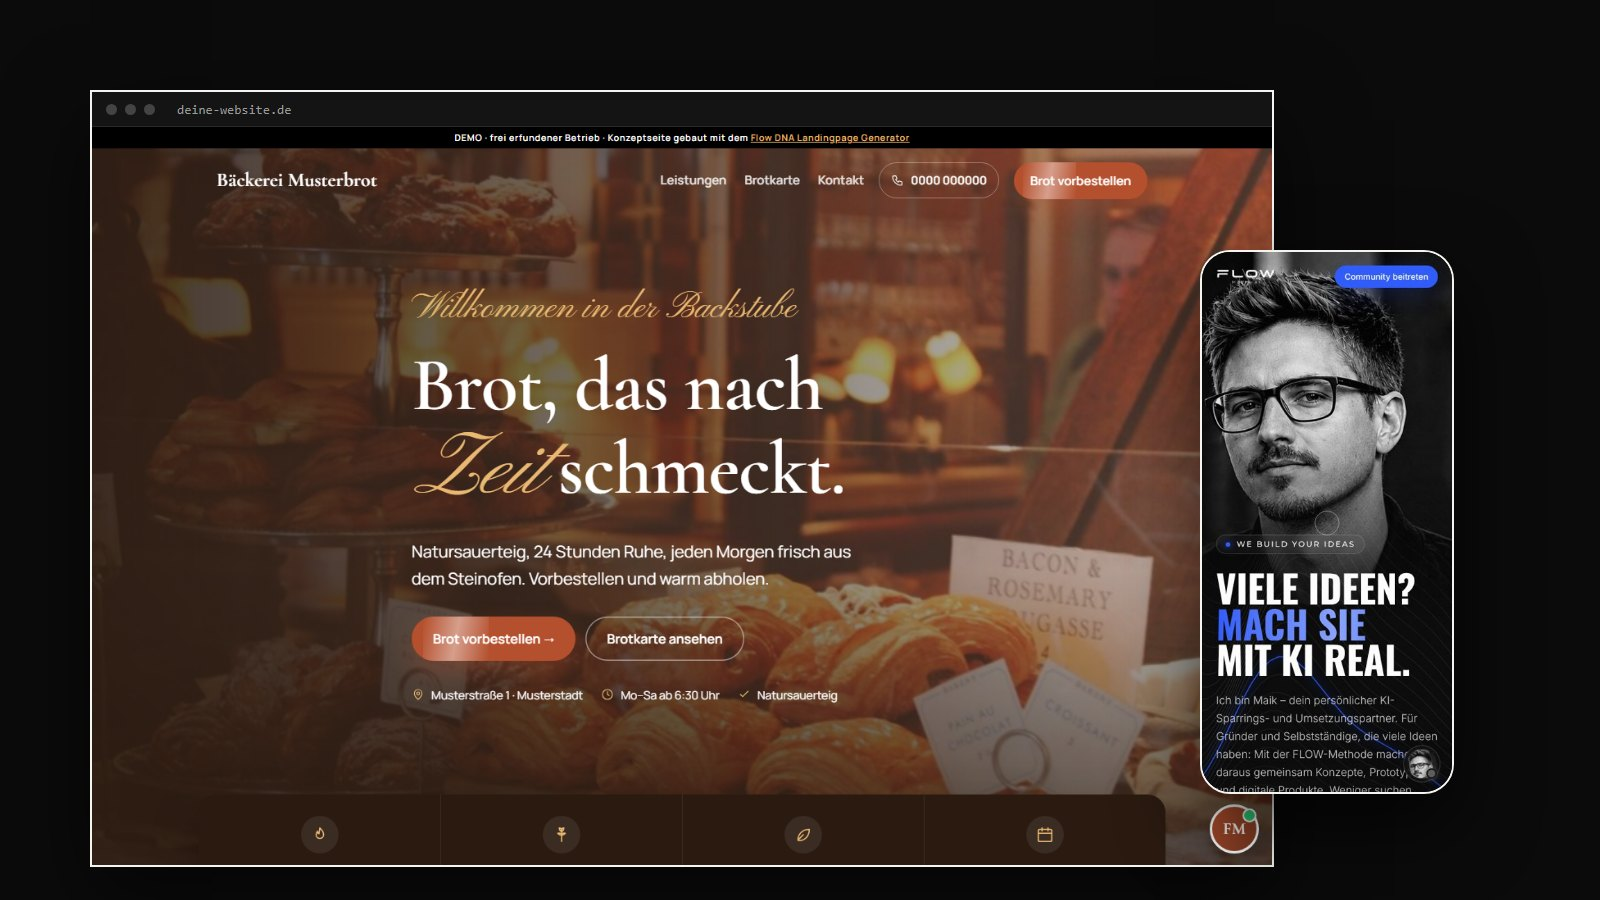
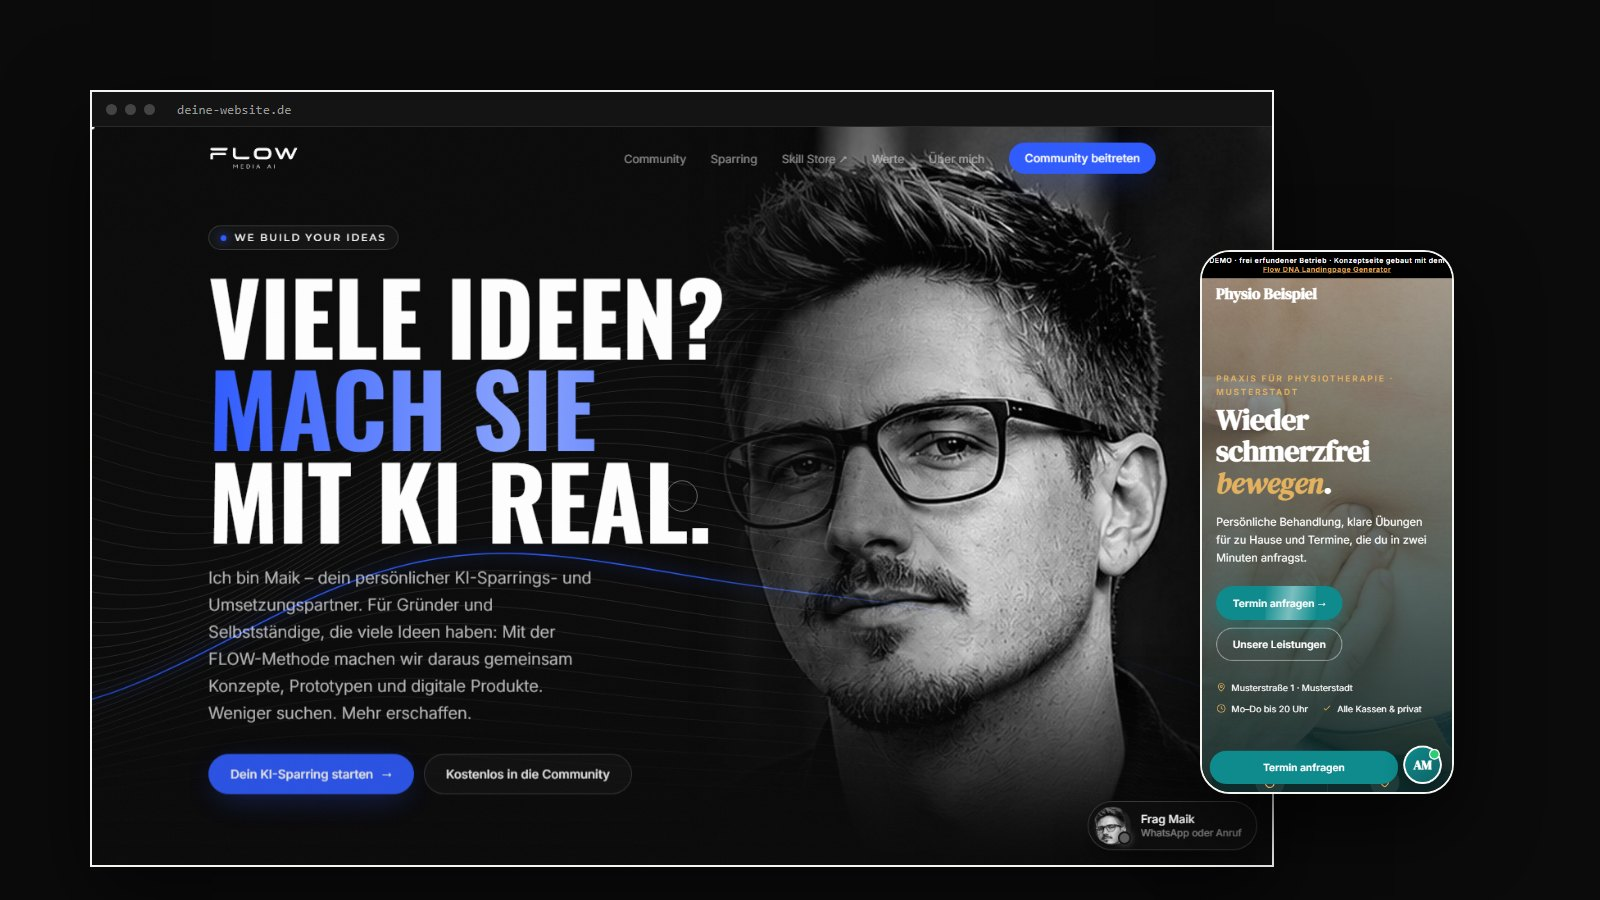
Kurs 03: Block „Flow DNA Special Skill – Gebaut für Premium.“, Cover mit Flow-Media-AI-Seite + Physio-Demo statt Bäckerei

diff --git a/flow-dna/index.html b/flow-dna/index.html
@@ -105,6 +105,12 @@ nav button.cbtn{gap:2px}nav button.cbtn img{width:50px;height:50px;border-radius
 .kd .kpb b{display:block;font:700 34px/1.05 Oswald;margin:4px 0 2px}
 .kd .kpb b s{font-size:20px;color:#9a9a95}
 .kd .kpb span{font-size:13px;color:#444}
+.kd .ksp{background:#0B0B0B;color:#F4F4F1;padding:16px 16px 12px;margin:10px 0 14px;border-left:4px solid #2F5BFF}
+.kd .ksp small{display:block;font:700 11px Montserrat;letter-spacing:.14em;text-transform:uppercase;color:#7F9BFF}
+.kd .ksp b{display:block;font:700 30px/1 Oswald;text-transform:uppercase;margin:6px 0 8px}
+.kd .ksp p{font-size:13.5px;line-height:1.55;color:#ddd;margin:0 0 8px}
+.kd .ksp ul{margin:0;padding-left:18px;border:0}
+.kd .ksp li{display:list-item;border:0;padding:3px 0;font-size:13px;color:#F4F4F1}
 .kd{margin:0 16px 30px}.kd .back{border:0;background:none;font:600 14px Inter;padding:12px 0;cursor:pointer}.kd .cv{height:200px;background-size:cover;background-position:center 30%;filter:grayscale(1);position:relative;border:2px solid #0B0B0B}
 .kd .cv span{position:absolute;right:10px;top:10px;font:700 12px Montserrat;letter-spacing:.12em;text-transform:uppercase;background:#2F5BFF;color:#fff;padding:5px 9px;filter:none}
 .kd h2{font:700 38px/1 Oswald;text-transform:uppercase;margin:12px 0 4px}.kd .sub{font-size:15px;color:#444;margin:0 0 6px}.kd .meta{font:600 12px Montserrat;letter-spacing:.12em;text-transform:uppercase;color:#6B6B66;margin-bottom:10px}
@@ -363,6 +369,7 @@ function kursPlayer(k){const D=kDone(k.id),L=k.lektionen;const nD=D.length;
   <h2>${DNA.esc(k.titel)}</h2><p class="sub">${DNA.esc(k.untertitel)}</p><div class="meta">${DNA.esc(k.level)} · ${DNA.esc(k.dauer)} · ${L.length} Lektionen</div>
   ${cur?`<video id="kvid" controls playsinline preload="metadata" poster="${cur.poster}" src="${cur.src}"></video><p class="now">▶ ${DNA.esc(cur.t)}</p>`:`<div class="cv" style="background-image:url(${DNA.esc(k.bild)})"><span>Folgt</span></div><p class="now">&nbsp;</p>`}
   ${k.hinweis?`<p class="hz">${DNA.esc(k.hinweis)}</p>`:""}
+  ${k.special?`<div class="ksp"><small>★ ${DNA.esc(k.special.label)}</small><b>${DNA.esc(k.special.titel)}</b><p>${DNA.esc(k.special.text)}</p><ul>${k.special.punkte.map(x=>`<li>${DNA.esc(x)}</li>`).join("")}</ul></div>`:""}
   <ol><li class="${kLek<0?"on":""}"><button type="button" class="lh" data-klek="-1"><i>00</i><span>Intro: ${DNA.esc(k.intro.titel)}</span><em>▶</em></button></li>${L.map((l,i)=>{const on=i===kLek,dn=D.includes(i);
    const st=l.folgt?"Folgt":l.optional?(dn?"✓ Optional":"Optional"):dn?"✓":"▶";
    return `<li class="${on?"on":""}"><button type="button" class="lh" data-klek="${i}"><i>${String(i+1).padStart(2,"0")}</i><span>${DNA.esc(k.module[i])}</span><em class="${dn?"ok":""}">${st}</em></button>
@@ -385,7 +392,7 @@ function kurse(){const M=kVorgemerkt();
   view.innerHTML=`<div class="kd"><button type="button" class="back" data-kurs="">← Alle Kurse</button><div class="cv" style="background-image:url(${DNA.esc(k.bild)})"><span>${lk?"Fertig · mit Code":"Coming soon"}</span></div>
   <h2>${DNA.esc(k.titel)}</h2><p class="sub">${DNA.esc(k.untertitel)}</p><div class="meta">${DNA.esc(k.level)} · ${DNA.esc(k.dauer)} · ${k.module.length} Lektionen</div>
   <ol>${k.module.map((m,i)=>`<li><i>${String(i+1).padStart(2,"0")}</i>${DNA.esc(m)}<em>🔒</em></li>`).join("")}</ol>
-  ${lk&&k.preis?`<div class="kpb"><small>Early Bird</small><b>${k.preis.early} € <s>${k.preis.normal} €</s></b><span>${DNA.esc(k.preis.gratis)} – Code einfach unten eingeben.</span></div>`:""}<div class="btnrow">${lk&&k.preis?`<a class="btnx b" href="${DNA.wa(`Hi Maik, ich möchte den Kurs „${k.titel}“ zum Early-Bird-Preis von ${k.preis.early} € (Flow-DNA-App).`)}" target="_blank" rel="noopener">Für ${k.preis.early} € sichern</a>`:""}<button type="button" class="btnx ${lk&&k.preis?"o":"b"}" data-kvm="${k.id}">${M.includes(k.id)?"✓ Vorgemerkt":"Vormerken"}</button><a class="btnx o" style="color:#0B0B0B;background:#fff" href="${DNA.wa(lk?`Hi Maik, ich hätte gern den Kurs-Code für „${k.titel}“ (Flow-DNA-App).`:`Hi Maik, sag mir Bescheid, wenn der Kurs „${k.titel}“ startet (Flow-DNA-App).`)}" target="_blank" rel="noopener">${lk?"Code per WhatsApp anfragen":"Per WhatsApp Bescheid bekommen"}</a></div>
+  ${k.special?`<div class="ksp"><small>★ ${DNA.esc(k.special.label)}</small><b>${DNA.esc(k.special.titel)}</b><p>${DNA.esc(k.special.text)}</p><ul>${k.special.punkte.map(x=>`<li>${DNA.esc(x)}</li>`).join("")}</ul></div>`:""}${lk&&k.preis?`<div class="kpb"><small>Early Bird</small><b>${k.preis.early} € <s>${k.preis.normal} €</s></b><span>${DNA.esc(k.preis.gratis)} – Code einfach unten eingeben.</span></div>`:""}<div class="btnrow">${lk&&k.preis?`<a class="btnx b" href="${DNA.wa(`Hi Maik, ich möchte den Kurs „${k.titel}“ zum Early-Bird-Preis von ${k.preis.early} € (Flow-DNA-App).`)}" target="_blank" rel="noopener">Für ${k.preis.early} € sichern</a>`:""}<button type="button" class="btnx ${lk&&k.preis?"o":"b"}" data-kvm="${k.id}">${M.includes(k.id)?"✓ Vorgemerkt":"Vormerken"}</button><a class="btnx o" style="color:#0B0B0B;background:#fff" href="${DNA.wa(lk?`Hi Maik, ich hätte gern den Kurs-Code für „${k.titel}“ (Flow-DNA-App).`:`Hi Maik, sag mir Bescheid, wenn der Kurs „${k.titel}“ startet (Flow-DNA-App).`)}" target="_blank" rel="noopener">${lk?"Code per WhatsApp anfragen":"Per WhatsApp Bescheid bekommen"}</a></div>
   <form data-kcode="${k.id}"><input name="c" placeholder="KURS-CODE" aria-label="Kurs-Code" autocomplete="off"><button type="submit">Freischalten</button></form><p class="msg" id="kmsg"></p></div>`;return}}
  document.getElementById("meta").innerHTML=`<span>Online-Kurse</span><span>${K.kurse.filter(x=>x.status==="live").length} live · ${K.kurse.filter(x=>x.status!=="live").length} in Planung</span>`;
  view.innerHTML=`<div class="ku"><p class="in">${DNA.esc(K.hinweis||"")}</p>${K.kurse.map(k=>`<button type="button" class="kc" data-kurs="${k.id}">${k.preis&&!kOffen(k)?`<i class="kpr">Early Bird ${k.preis.early} €<s>${k.preis.normal} €</s></i>`:""}<div class="cv" style="background-image:url(${DNA.esc(k.bild)})"></div><div class="tx" style="position:relative;margin-top:-150px;height:150px;padding:14px"><i>${k.nr}</i><b>${DNA.esc(k.titel)}</b><span>${DNA.esc(k.untertitel)}</span></div>

diff --git a/flow-dna/kurse.js b/flow-dna/kurse.js
@@ -10,6 +10,9 @@ window.FLOW_KURSE = {
       module: ["Brand DNA: Wer bist du, für wen, warum?", "Deine Stimme als Skill festhalten", "Look & Design-System ohne Designer", "Fotos und Porträts richtig nutzen", "Dein Brand-Paket für jede KI"] },
     { id: "website", nr: "03", titel: "Bau deine Premium-Website mit Skill", untertitel: "Aus deinem Content wird deine eigene Premium-Website", level: "Einsteiger", dauer: "ca. 4 Min. Video · 30 Min. Umsetzen", status: "live", code: "WEBSITE", bild: "kurse/website-mit-skill/img/cover.jpg",
       preis: { normal: 249, early: 59, gratis: "Für Workshop-Teilnehmer gratis" },
+      special: { label: "Flow DNA Special Skill", titel: "Gebaut für Premium.",
+        text: "Du arbeitest nicht mit einem Baukasten oder einem Standard-Prompt, sondern mit dem Website-Skill aus dem Flow DNA Store. Er ist in vielen echten Website-Durchläufen auf Premium geschärft – jede Regel kommt aus Seiten, die gebaut, verglichen und verbessert wurden. Am Ende steht keine Vorlage, sondern deine Premium-Website.",
+        punkte: ["Premium-Seitenaufbau als Pflicht: Vollbild-Hero, Story, Bildkarten, Galerie, Kontakt", "Branchen-Regeln: erkennt deine Branche und baut ein, was Kunden dort erwarten", "Fünf deutlich verschiedene Varianten – du nimmst die beste", "Dein Content zuerst: deine Fotos, deine Stimme, deine Farben"] },
       intro: { video: "kurse/website-mit-skill/videos/L00.mp4", poster: "kurse/website-mit-skill/videos/L00.jpg", titel: "Hallo – das baust du heute" },
       hinweis: "Videos mit KI-Stimme, teils als Animation. Jede Lektion endet mit einer Aufgabe.",
       module: ["Content-Ordner anlegen", "Website-Skill einrichten", "5 Varianten bauen und auswählen", "Premium-Look: Hero, Branche, Pflicht-Bausteine", "Live stellen auf GitHub Pages", "Mit KI weiterpflegen"],

diff --git a/flow-dna/sw.js b/flow-dna/sw.js
@@ -1,5 +1,5 @@
 // Flow DNA Service Worker: App-Hülle offline, Inhalte immer frisch (network first)
-const C = "flow-dna-v21";
+const C = "flow-dna-v22";
 const CORE = ["./", "index.html", "kern.js", "kern.css", "daten.js", "angebote.js", "kurse.js", "coach.js", "news.js", "manifest.webmanifest", "app/icon-192.png", "app/icon-512.png"];
 self.addEventListener("install", e => { e.waitUntil(caches.open(C).then(c => c.addAll(CORE)).then(() => self.skipWaiting())) });
 self.addEventListener("activate", e => { e.waitUntil(caches.keys().then(k => Promise.all(k.filter(x => x !== C).map(x => caches.delete(x)))).then(() => self.clients.claim())) });
